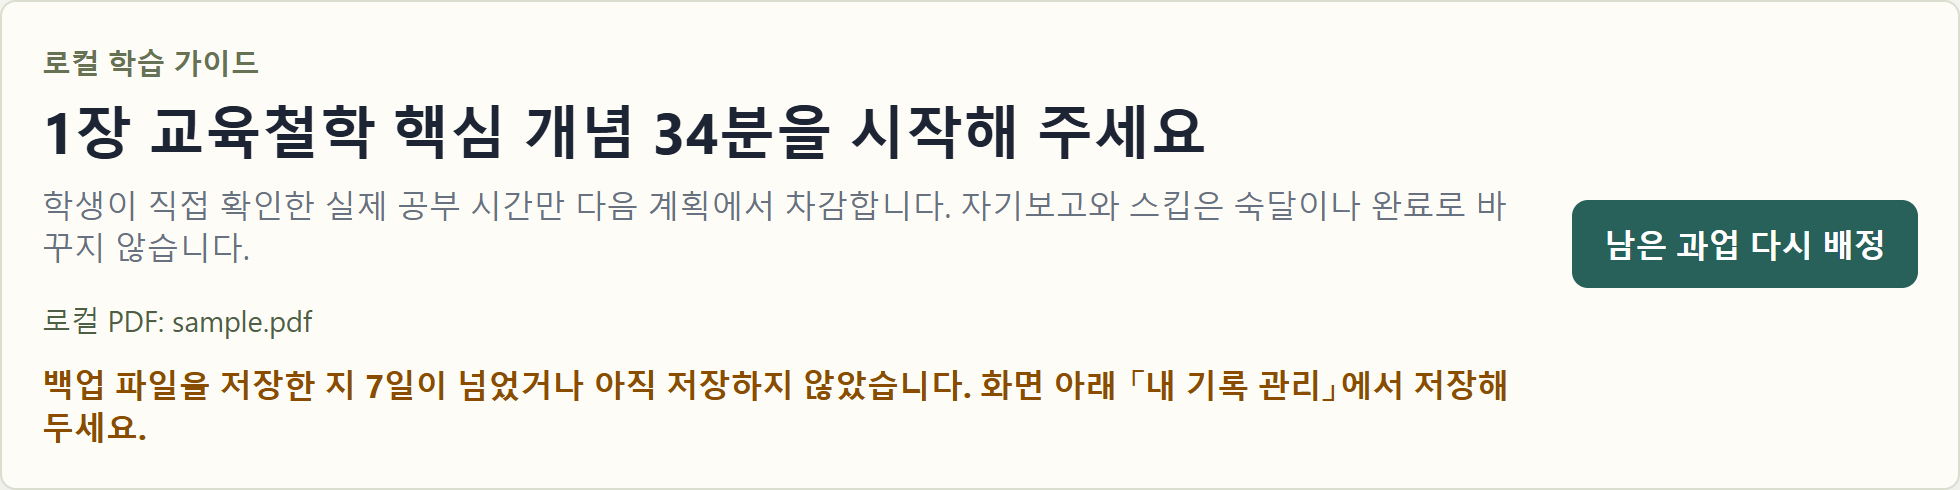
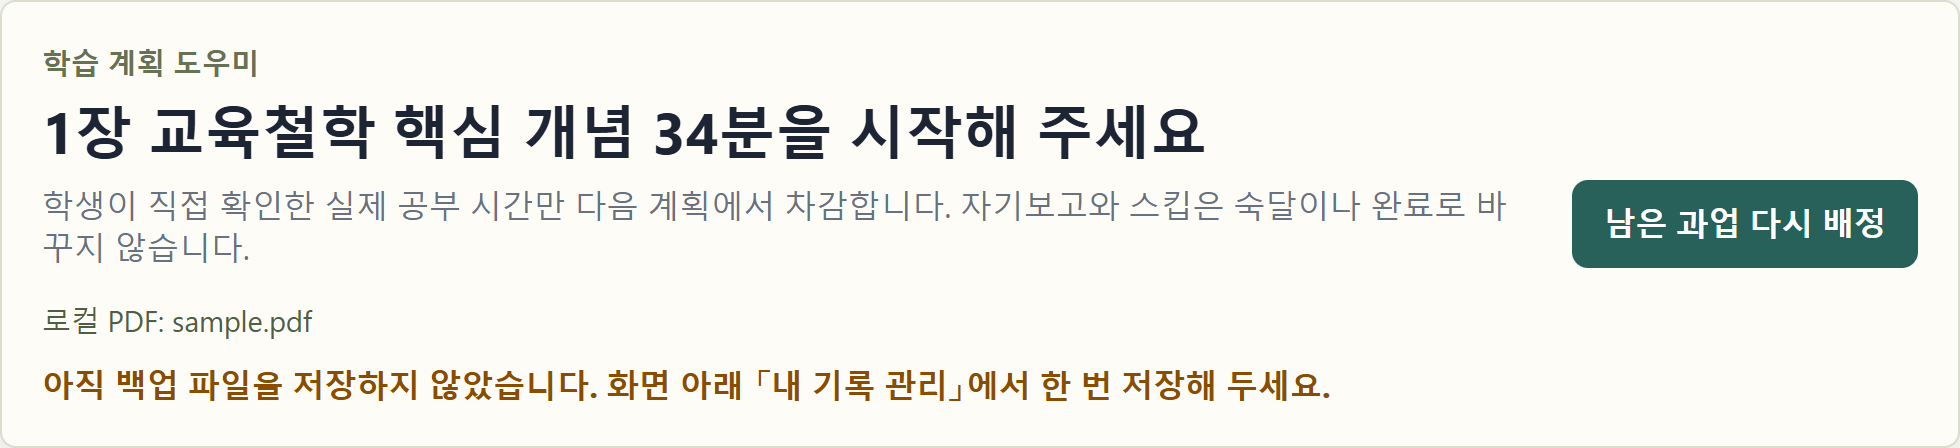
v0.8.0 웹 버전 문서: 검증 기록, PRD 9.3, L26~L31, 웹 가이드, 시범 절차 개정, 사이트 밖 요청 0 확인

diff --git a/docs/pilot/guide/guide-web.html b/docs/pilot/guide/guide-web.html
@@ -173,7 +173,7 @@
 </table>
 
 <h2>11. 기록이 저장되는 곳</h2>
-<p>자료 설정, 계획, 공부 기록, PDF에서 뽑은 글자는 <strong>이 컴퓨터의 이 브라우저 안</strong>에 저장됩니다. 인터넷으로 보내지 않으므로 운영자(교수)도 볼 수 없습니다. PDF 원본은 저장하지 않으니, PDF 파일은 원래 자리에 그대로 보관합니다.</p>
+<p>자료 설정, 계획, 공부 기록, PDF에서 뽑은 글자는 <strong>이 컴퓨터의 이 브라우저 안</strong>에 저장됩니다. 인터넷으로 보내지 않으므로 운영자(교수)도 볼 수 없습니다. 다만 이 주소의 사이트를 제공하는 GitHub은 방문한 컴퓨터의 IP 주소를 보안 목적으로 기록합니다. PDF 원본은 저장하지 않으니, PDF 파일은 원래 자리에 그대로 보관합니다.</p>
 <p>이 기록은 <strong>암호화되지 않은 상태</strong>로 저장됩니다. 컴퓨터를 다른 사람과 함께 쓰면 그 사람도 같은 브라우저로 이 주소를 열어 기록을 볼 수 있습니다. 백업 파일도 마찬가지이니 보관할 곳에 주의합니다.</p>
 
 <h2>12. 다 쓴 뒤 기록 지우기</h2>
@@ -182,7 +182,7 @@
 <div class="box note"><div class="title">공용 컴퓨터에서 썼다면</div><p>학교 실습실처럼 여러 사람이 쓰는 컴퓨터에서 썼다면, 자리를 뜨기 전에 백업 파일을 자신의 저장 공간에 옮기고 2단계로 기록을 지웁니다.</p></div>
 
 <div class="foot">
-  웹 버전 0.8.0 기준 · 확인 일자 2026-09-28 · 확인 근거: 단추·문구와 화면은 배포된 웹 버전의 화면 코드와 헤드리스 Chrome으로 찍은 실제 화면(예시 기록), Chrome 즐겨찾기 단축키는 Google Chrome 도움말(키보드 단축키) · 미확인: 실제 Safari·Edge·Firefox와 휴대폰·태블릿에서의 화면
+  웹 버전 0.8.0 기준 · 확인 일자 2026-09-28 · 확인 근거: 단추·문구와 화면은 배포된 웹 버전의 화면 코드와 헤드리스 Chrome으로 찍은 실제 화면(예시 기록), Chrome 즐겨찾기 단축키는 Google Chrome 도움말(키보드 단축키), IP 주소 기록은 GitHub Docs(What is GitHub Pages?) · 미확인: 실제 Safari·Edge·Firefox와 휴대폰·태블릿에서의 화면
 </div>
 </body>
 </html>

diff --git a/docs/pilot/pilot-plan.md b/docs/pilot/pilot-plan.md
@@ -1,86 +1,77 @@
-# 시범 사용 운영 절차 (v0.6)
+# 시범 사용 운영 절차 (v0.8 웹 버전)
 
-작성일 `2026-09-27`. 대상은 시범을 운영하는 사람이다. 근거 결정은 [D016~D018](../decisions.md), 설치본 상태는 [v0.6 검증 기록](../verification-v0.6.md)이다. 아래의 인원·시간·관찰 항목은 작업자가 정한 초안이며 확정된 연구 설계가 아니다.
+작성일 `2026-09-27`, 웹 버전으로 개정 `2026-09-28`. 대상은 시범을 운영하는 사람이다. 근거 결정은 [D016~D022](../decisions.md), 웹 버전 상태는 [v0.8 검증 기록](../verification-v0.8.md)이다. 아래의 인원·시간·관찰 항목은 작업자가 정한 초안이며 확정된 연구 설계가 아니다.
 
 ## 1. 목적과 범위
 
-시범의 목적은 학생이 설치부터 첫 계획, 다음 날 복귀, 제거까지 혼자 진행할 때 **어디서 막히는지**를 찾는 것이다. 학습효과, 임용시험 성과, 만족도 점수는 측정하지 않는다. 참여자가 2~3명이라 그런 주장을 뒷받침할 수 없다.
+시범의 목적은 학생이 주소를 여는 것부터 첫 계획, 다음 날 복귀, 지난 날 확인, 백업까지 혼자 진행할 때 **어디서 막히는지**를 찾는 것이다. 학습효과, 임용시험 성과, 만족도 점수는 측정하지 않는다. 참여자가 2~3명이라 그런 주장을 뒷받침할 수 없다.
 
-관찰 대상은 설치 과정, PDF 등록과 추출 검토 화면, 오늘 시작과 시간 기록, 다음 날 다시 배정, 제거할 때의 기록 삭제 선택(Windows는 제거 화면의 선택 칸, Mac은 가이드 13절의 수동 삭제)이다. 스캔 PDF 인식(OCR)과 LLM 계정 연결은 v0.6에 없다. 스캔 쪽은 `글자 없음`으로 표시만 한다. 참여자가 이 기능을 찾는지는 관찰해서 다음 구현 순서를 정하는 근거로 쓴다.
+관찰 대상은 주소 열기와 즐겨찾기, PDF 등록과 추출 검토 화면, 오늘 시작과 시간 기록, 다음 날 다시 배정, 학습 캘린더의 날짜 확인, 백업 파일 저장·불러오기다. 스캔 PDF 인식(OCR)과 LLM 계정 연결은 없다. 스캔 쪽은 `글자 없음`으로 표시만 한다. 참여자가 이 기능을 찾는지는 관찰해서 다음 구현 순서를 정하는 근거로 쓴다.
 
 ## 2. 시작 전 조건
 
-1. **깨끗한 환경 시험 통과.** 운영 PC에서 Windows 샌드박스를 켜고 `npm run test:sandbox`가 `passed: true`로 끝나야 한다. 실패하면 시범을 시작하지 않는다. `2026-09-27` v0.5.0과 v0.6.0 설치파일로 통과했다. 이 시험은 무인 설치이므로 Windows 경고 화면은 확인하지 못한다. Mac 앱은 GitHub의 macOS 환경에서 빌드와 자동 시험(Apple Silicon·Intel)이 통과한 압축파일만 배포한다. 이 자동 시험은 브라우저를 열지 않는 설정으로 돌았으므로, Mac에서 브라우저가 저절로 열리는지는 첫 Mac 참여자에게서 관찰한다.
-2. **전달 경로는 구글 드라이브 공유 링크.** 모든 참여자에게 같은 링크를 준다. 링크로 내려받은 파일에는 인터넷에서 받은 파일이라는 표시가 붙어, 드라이브·브라우저·Windows의 경고가 나타날 수 있다(`확인 필요`). 다시 빌드해도 공유 파일이 바뀌지 않도록, 배포할 설치파일은 `dist/`를 직접 공유하지 않고 별도 공유 폴더에 복사해 올린다. Mac 압축파일은 GitHub Actions 결과물(`challenge-master-macos`)로 받는다. `gh run download`나 웹에서 받은 바깥 묶음만 풀고, 안쪽 `Challenge-Master-0.7.0-macos.zip`은 **풀지 않은 채** 올린다. Windows에서 풀었다가 다시 압축하면 실행 권한과 앱 구조가 사라져 실행되지 않을 수 있다. 올린 파일의 SHA-256을 다시 대조한다. GitHub 결과물은 30일 뒤 삭제되므로 받은 즉시 저장소 밖에 보관한다.
-3. **운영자 직접 설치.** 2항의 **드라이브 링크로 내려받은** 설치파일을 운영자 PC에서 설치·실행·제거하면서 브라우저 다운로드 경고, Windows 경고 창, 설치 마법사, 제거 화면을 캡처한다. 직접 빌드한 파일을 그대로 실행하면 학생이 보는 경고가 재현되지 않을 수 있다. 제거 화면의 삭제 칸을 시험하기 전에는 운영자 PC에 `%LOCALAPPDATA%\ChallengeMaster`가 없는지 먼저 확인한다. 폴더가 있으면 삭제 칸 시험은 하지 않는다. 운영자에게 Mac이 없으므로 Mac의 경고·허용 화면은 **첫 Mac 참여자의 첫 사용 관찰**에서 캡처한다.
-4. **학생 가이드.** 학생에게는 [Windows 가이드](guide/guide-windows.html)와 [Mac 가이드](guide/guide-mac.html)를 PDF로 만든 것을 준다(공유폴더의 `Challenge Master 설치·사용 가이드` 두 파일). 가이드에는 링크를 넣지 않고 「운영자가 보낸 링크」로만 쓴다. 링크는 공개 저장소의 파일에 넣지 않는다. 가이드는 확인하지 못한 두 화면(Windows 파란 경고 창, Mac 첫 경고 창)을 「글자가 설명과 다르면 누르지 말고 캡처」로 처리한다. 3항과 첫 Mac 참여자 관찰에서 실제 화면을 얻으면 그 캡처로 해당 부분을 고친다.
-5. **설치파일 확인값.** Windows는 `dist/Challenge-Master-Setup-0.7.0-win-x64.exe.sha256`, Mac은 GitHub에서 받은 `Challenge-Master-0.7.0-macos.zip.sha256`의 값이 [v0.7 검증 기록](../verification-v0.7.md)과 같은지 확인한다. 첫 사용 관찰 때 학생 PC에서 대조한다. Mac은 학생이 zip을 풀기 전에 대조한다. Windows는 PowerShell `Get-FileHash <파일 경로>`, Mac은 터미널 `shasum -a 256 <파일 경로>`로 확인한다.
-6. **참여자 기기 조건.** Windows는 Windows 11 x64에서 확인했고, Windows 10·ARM PC·S 모드 PC는 확인하지 않았다. Mac은 macOS 13.5 이상이어야 한다. 이 하한은 포함한 Node.js 24의 지원 범위(Node.js BUILDING.md)를 따른 것이며, 자동 시험을 돌린 macOS는 15와 26뿐이며 13.5~14는 시험하지 않았다. 실제 Mac 기기에서 학생이 쓰는 모습도 아직 관찰하지 않았다.
+1. **배포 시험 통과.** GitHub Actions `pages` 실행이 성공한 판만 학생이 본다. 이 실행은 단위 시험과 Chrome·WebKit 학생 흐름 시험이 통과해야 사이트를 바꾼다. 시범 직전에 배포된 주소로 `node scripts/browser-web.mjs chrome webkit --url <주소>`를 한 번 더 돌린다.
+2. **전달 경로는 주소 하나.** 학생에게 `https://jinmin75.github.io/Challenge-Master/`와 [웹 가이드](guide/guide-web.html)의 PDF를 준다. 설치파일은 주지 않는다(D022). 이 주소는 공개 저장소의 공개 사이트이며 앱 코드만 있다. 학생 기록은 각자의 브라우저에만 생긴다.
+3. **브라우저 조건.** 시험한 것은 Windows의 Chrome과 Playwright의 WebKit(Safari 엔진)이다. 실제 Safari·Edge·Firefox와 휴대폰·태블릿은 시험하지 않았다. Safari 16 이하는 영구 저장 요청을 지원하지 않는다(WebKit 문서, Safari 17부터 지원). 첫 Safari 참여자에게서 화면을 관찰한다.
+4. **운영자가 할 일은 주소 전달뿐이다.** 운영자 PC에 설치하거나 경고 화면을 캡처할 필요가 없다. 학생의 기록은 운영자 PC·계정·저장소에 저장되지 않는다(D022 사용자 조건).
 
-## 3. 보안 설정 확인
+## 3. 기록 보관 조건
 
-### 3.1 Windows: 스마트 앱 컨트롤
+기록은 학생 브라우저의 저장소(IndexedDB)에만 있다. 다음 경우 학생 화면에서 기록이 보이지 않는다.
 
-Microsoft 지원 문서에 따르면, 스마트 앱 컨트롤은 서명되지 않았거나 서명이 잘못된 앱을 신뢰할 수 없는 앱으로 보고 차단한다. 문서는 개별 앱에 예외를 줄 방법이 현재 없다고 밝힌다(`2026-09-27` 확인, [스마트 앱 컨트롤 FAQ](https://support.microsoft.com/ko-kr/windows/security/threat-malware-protection/smart-app-control-frequently-asked-questions)). v0.6 설치파일과 제거 프로그램은 서명되지 않았다.
+- 다른 브라우저, 다른 컴퓨터, 시크릿 창에서 열었을 때
+- 학생이 브라우저의 사이트 데이터를 지웠을 때
+- 브라우저가 저장 공간 부족이나 오래 방문하지 않은 사이트를 이유로 데이터를 정리했을 때(WebKit 문서의 eviction 조건). 앱은 첫 등록 때 영구 저장을 요청하지만 브라우저가 거절할 수 있다
 
-`2026-09-28` 결정: 참여자에게 이 기능의 상태를 **미리 확인시키지 않는다**. 학생이 기능 이름과 설정 위치를 몰라 수업이 멈추는 병목이 생기기 때문이다(운영자 지적). 참여자는 설치파일을 그냥 실행하고, 「차단」·「보호」 창이 떠서 설치가 시작되지 않을 때만 그 창을 찍어 운영자에게 보낸다(Windows 가이드 3절). 막힌 창의 실제 문구는 `확인 필요`다.
+대비책은 **백업 파일**이다. 앱은 백업 파일을 한 번도 저장하지 않았거나 마지막 저장 뒤 7일이 지나면 화면 맨 위에 안내를 띄운다. 7일은 작업자가 정한 초기값이며 시범 뒤 조정한다. 첫 사용 관찰 때 참여자가 백업 파일을 한 번 저장하고, 그 파일이 어디에 저장됐는지 찾게 한다.
 
-- 막힌 참여자에게 이 기능을 끄라고 요구하지 않는다. 설치 없이 쓰는 방법이 준비될 때까지 해당 참여자는 제외하는 것을 기본으로 한다.
-
-같은 문서는 최근 Windows 업데이트부터 클린 설치 없이 Windows 보안 앱에서 이 기능을 다시 켤 수 있다고 밝힌다. 참여자가 스스로 이 기능을 다시 켜려 한다면 서명 없는 제거 프로그램이 막힐 수 있으므로(`확인 필요`) 먼저 앱을 제거하도록 안내한다. 마무리 면담 때 설정 상태를 한 번 더 적는다.
-
-### 3.2 Mac: 처음 한 번 허용
-
-Mac 앱도 Apple 개발자 서명과 공증이 없다. Apple 지원 문서에 따르면, 이런 앱은 처음 열 때 막히고 사용자가 `시스템 설정` → `개인정보 보호 및 보안`에서 `그래도 열기`를 눌러야 한다(`2026-09-27` 확인, [Apple 지원 102445](https://support.apple.com/en-us/102445)). 이 단계는 참여 조건이 아니라 설치 절차의 일부이며, 한국어 메뉴 이름은 첫 Mac 참여자의 화면으로 확인한다. GitHub 시험 환경에서 이 앱에 대한 Gatekeeper 판정도 기록했다([v0.6 검증 기록](../verification-v0.6.md)). 다만 그 환경의 파일에는 인터넷에서 받았다는 표시가 없으므로 학생 화면과 같다고 보지 않는다.
-
-이 앱 하나에 대해 `그래도 열기`를 누르는 것은 8절의 「보안 설정 변경」으로 보지 않는다. `그래도 열기` 단추가 없거나 학교·기관 관리 기기라서 막히면, 터미널 명령이나 Gatekeeper 설정 변경을 안내하지 않고 해당 참여자를 제외한다.
+설치판 0.7.0은 저장소와 GitHub Actions 결과물에 예비로만 남는다. 공유폴더에는 두지 않는다.
 
 ## 4. 진행 순서 (제안값)
 
 | 단계 | 시점 | 방식 | 운영자가 할 일 |
 |---|---|---|---|
-| 사전 확인 | 1일차 전 | 대면 또는 메신저 | 목적 설명, Mac은 macOS 버전 확인, 드라이브 링크와 해당 운영체제의 학생 안내 전달 |
-| 첫 사용 관찰 | 1일차, 30~40분 | 대면 또는 화면 공유(녹화하지 않음) | 설치파일 확인값 대조 후 설치 안내만 주고 지켜본다. 참여자가 도움을 청하기 전에는 개입하지 않는다 |
+| 사전 안내 | 1일차 전 | 대면 또는 메신저 | 목적 설명, 주소와 웹 가이드 PDF 전달, 한 브라우저로만 쓴다는 점 안내 |
+| 첫 사용 관찰 | 1일차, 20~30분 | 대면 또는 화면 공유(녹화하지 않음) | 주소 안내만 주고 지켜본다. 참여자가 도움을 청하기 전에는 개입하지 않는다. 끝에 백업 파일을 한 번 저장하게 한다 |
 | 혼자 사용 | 2~7일차 | 참여자 단독 | 사용 빈도는 요청하지 않는다. 운영자는 연락을 기다린다 |
-| 마무리 면담 | 7일차 전후, 20~30분 | 대면 또는 화면 공유(녹화하지 않음) | 면담 질문(6절), 제거 여부와 기록 삭제 선택을 참여자가 정한다 |
+| 마무리 면담 | 7일차 전후, 20~30분 | 대면 또는 화면 공유(녹화하지 않음) | 면담 질문(6절). 계속 쓸지, 기록을 지울지는 참여자가 정한다 |
 
-첫 Mac 참여자는 예외로 운영자가 화면을 함께 보며 진행한다(2절 4항). 이 참여자의 관찰 메모에는 `동반`이라고 표시해, 혼자 진행한 참여자의 기록과 구분한다.
-
-첫 사용에 쓸 PDF는 참여자가 이용 권한을 가진 자료로 한다. 운영자가 교재 파일을 나눠 주지 않는다. 텍스트를 선택할 수 있는 PDF에서만 추출이 된다는 점과 32MB·30쪽 제한을 미리 알린다.
+첫 사용에 쓸 PDF는 참여자가 이용 권한을 가진 자료로 한다. 운영자가 교재 파일을 나눠 주지 않는다. 텍스트를 선택할 수 있는 PDF에서만 추출이 된다는 점과 50MB·30쪽 제한을 미리 알린다.
 
 ## 5. 관찰 기록 항목
 
 첫 사용 관찰에서는 아래를 시간과 함께 적는다. 참여자의 PDF 내용, 답안, 화면에 보이는 교재 원문은 적지 않는다.
 
-- 설치파일 실행부터 첫 화면이 열릴 때까지 걸린 시간, 경고가 떴는지, 참여자가 어떻게 통과했는지
-- **공부 범위** 칸을 설치 안내와 화면 도움말만으로 채웠는지
+- 사용한 운영체제와 브라우저(이름과 버전), 주소를 연 방법, 즐겨찾기를 했는지
+- **공부 범위** 칸을 가이드와 화면 도움말만으로 채웠는지
+- PDF 등록에 걸린 시간(쪽 수와 함께), 오래 걸리거나 멈춘 경우 그 원문
 - **이 설정으로 시작** 다음에 **오늘 시작**을 스스로 찾았는지
-- **PDF 추출 검토**의 `원본 대조 필요` 표시를 어떻게 이해했는지. 이 화면은 쪽 번호와 상태만 보여 준다. 글자가 없는 쪽은 `글자 없음(스캔 또는 빈 쪽)`으로 표시하며, v0.6 이전에 등록한 자료만 기존처럼 `추출 초안`으로 보인다. 실제 추출 여부는 참여자가 허락하면 기록 폴더의 추출 초안 파일에서 확인한다
-- 도움을 요청한 지점과 요청 내용, 운영자가 개입한 지점
-- 오류 메시지 원문. 앱이 열리지 않으면 Windows는 `%LOCALAPPDATA%\ChallengeMaster\startup-error.log`, Mac은 `~/Library/Application Support/ChallengeMaster/startup-error.log`와 `~/Library/Logs/ChallengeMaster/launcher.log`가 생겼는지
-- Mac: 첫 경고창에서 누른 단추, `그래도 열기`를 찾아간 경로, 허용 뒤 브라우저가 저절로 열렸는지와 걸린 시간, 추가로 뜬 시스템 창(있으면 원문)
+- **PDF 추출 검토**의 `원본 대조 필요` 표시를 어떻게 이해했는지
+- 백업 파일을 저장한 뒤 파일을 찾았는지, 어디에 옮겨 두었는지
+- 도움을 요청한 지점과 요청 내용, 운영자가 개입한 지점, 오류 메시지 원문
 
 ## 6. 마무리 면담 질문
 
 1. 첫날 이후 앱을 연 날과 그 이유, 열지 않은 날과 그 이유
-2. 다음 날 **남은 과업 다시 배정**으로 계획을 이어 갈 수 있었는지
-3. 오늘 계획과 이번 주 예측이 실제 공부 계획에 쓸모가 있었는지, 어떤 점이 달랐는지
-4. 앱을 쓰면서 따로 하게 된 일(파일 정리, 시간 계산 등)
-5. 스캔 PDF 인식이나 AI 계정 연결이 없어서 불편했던 순간이 있었는지
-6. 앱을 계속 쓸지, 제거할지, 제거한다면 기록을 남길지
+2. 다음 날 **남은 과업 다시 배정**으로 계획을 이어 갈 수 있었는지, 같은 브라우저로 열었는지
+3. 학습 캘린더에서 기록 없는 날을 확인했는지, 확인하면서 불편하거나 망설인 점
+4. 오늘 계획과 이번 주 예측이 실제 공부 계획에 쓸모가 있었는지, 어떤 점이 달랐는지
+5. 백업 안내를 보고 백업 파일을 저장했는지, 저장하지 않았다면 이유
+6. 스캔 PDF 인식이나 AI 계정 연결이 없어서 불편했던 순간이 있었는지
+7. 계속 쓸지, 이 브라우저의 기록을 지울지
 
 ## 7. 기록과 개인정보
 
-학생의 학습 기록과 PDF 사본은 학생 기기에만 있다. Windows는 `%LOCALAPPDATA%\ChallengeMaster`, Mac은 `~/Library/Application Support/ChallengeMaster`이며, Mac은 실행 기록을 `~/Library/Logs/ChallengeMaster`에도 남긴다. 앱은 이 자료를 외부로 보내지 않는다. 운영자가 보관하는 것은 관찰 메모와 참여자가 직접 보낸 화면 캡처·오류 로그뿐이다.
+학생의 자료 설정, 계획·공부 기록, PDF에서 뽑은 글자는 학생 브라우저에만 있다. PDF 원본은 저장하지 않는다. 앱은 이 자료를 어디로도 보내지 않으며, 사이트를 제공하는 GitHub Pages에도 학생 자료가 전송되지 않는다(페이지 파일을 받아 가는 요청만 있다). 다만 GitHub은 Pages 사이트 방문자의 IP 주소를 보안 목적으로 기록·보관한다(`2026-09-28` GitHub Docs 「What is GitHub Pages?」 확인). 학생에게 사전 안내 때 알린다. 운영자가 보관하는 것은 관찰 메모와 참여자가 직접 보낸 화면 캡처·오류 원문뿐이다. 백업 파일은 참여자 소유이며 운영자가 받지 않는다.
 
-관찰 메모에는 참여자 이름 대신 P1·P2·P3를 쓴다. 이 저장소는 공개 저장소다. 관찰 메모, 참여자가 보낸 캡처와 로그는 **저장소 밖**에 두거나, 저장소 안에 둘 경우 `docs/pilot/private/`에만 둔다(`.gitignore`의 `private/`가 이 폴더를 제외한다). 커밋 전에는 변경 파일 목록을 직접 확인한다. 시범 결과는 식별 정보를 뺀 요약만 `docs/`에 남긴다.
+관찰 메모에는 참여자 이름 대신 P1·P2·P3를 쓴다. 이 저장소는 공개 저장소다. 관찰 메모, 참여자가 보낸 캡처는 **저장소 밖**에 두거나, 저장소 안에 둘 경우 `docs/pilot/private/`에만 둔다(`.gitignore`의 `private/`가 이 폴더를 제외한다). 커밋 전에는 변경 파일 목록을 직접 확인한다. 시범 결과는 식별 정보를 뺀 요약만 `docs/`에 남긴다.
 
 ## 8. 중단과 종료
 
 다음 중 하나가 생기면 해당 참여자의 시범을 멈추고 원인을 먼저 고친다.
 
-- 설치가 차단되어 보안 설정을 바꾸지 않고는 진행할 수 없을 때
-- 학습 기록이나 PDF 사본이 사라지거나 다른 자료와 섞였을 때
+- 참여자의 브라우저에서 주소가 열리지 않거나 등록이 되지 않을 때
+- 학습 기록이 사라지거나 다른 자료와 섞였을 때(백업 파일로 되돌릴 수 있었는지도 적는다)
 - 참여자가 부담을 이유로 중단을 원할 때(이유를 묻지 않는다)
 
-시범은 모든 참여자가 설치·첫 계획·다시 배정·제거 선택을 한 번씩 해 보았거나, 막힌 지점이 기록되었을 때 끝난다. 끝나면 [작업 상태](../status.md)에 결과 요약을 남기고, 서명과 일반 배포 경로, OCR과 계정 연결의 순서를 다시 결정한다.
+시범은 모든 참여자가 첫 계획·다시 배정·날짜 확인·백업 저장을 한 번씩 해 보았거나, 막힌 지점이 기록되었을 때 끝난다. 끝나면 [작업 상태](../status.md)에 결과 요약을 남기고, 되돌리기 기능, 점검 신호 초기값, OCR과 계정 연결의 순서를 다시 결정한다.

diff --git a/docs/status.md b/docs/status.md
@@ -1,11 +1,12 @@
 # 작업 상태
 
-기준일: `2026-09-28`. 설계 v4.2 / Windows·macOS 시범판 v0.7.0. 현재 목표는 학생 2~3명 시범 사용판이며 Mac 사용자도 포함한다([D016~D020](decisions.md), [PRD 6.1절·9.2절](prd.md)).
+기준일: `2026-09-28`. 설계 v4.2 / **웹 버전 v0.8.0**(학생 배포) / Windows·macOS 설치판 v0.7.0(예비). 현재 목표는 학생 2~3명 시범 사용이다([D016~D022](decisions.md), [PRD 6.1·9.3절](prd.md)).
 
 | 구분 | 현재 상태 | 근거/다음 확인 |
 |---|---|---|
-| Windows 설치파일 | v0.7.0 NSIS 설치파일; 앱 전용 Node.js와 pdf.js 포함, Python 없음; 서명 없음 | [v0.7 검증](verification-v0.7.md) |
-| macOS 앱 | `Challenge Master.app` 압축파일; Apple Silicon·Intel 겸용; 서명·공증 없음 | GitHub macOS 환경(arm64·Intel)에서 빌드·자동 시험 통과; 실제 Mac 학생 사용은 NOT RUN |
+| 웹 버전 | `https://jinmin75.github.io/Challenge-Master/`; 기록·추출 글자는 학생 브라우저(IndexedDB)에만, PDF 원본 저장 안 함; 백업 저장·불러오기·지우기; 사이트 밖 요청 0 | [v0.8 검증](verification-v0.8.md); Chrome·WebKit 통과, 실제 Safari·Edge·휴대폰 NOT RUN |
+| Windows 설치파일(예비) | v0.7.0 NSIS 설치파일, 공유폴더에서 뺌; 앱 전용 Node.js와 pdf.js 포함, Python 없음; 서명 없음 | [v0.7 검증](verification-v0.7.md) |
+| macOS 앱(예비) | `Challenge Master.app` 압축파일; Apple Silicon·Intel 겸용; 서명·공증 없음 | GitHub macOS 환경(arm64·Intel)에서 빌드·자동 시험 통과; 실제 Mac 학생 사용은 NOT RUN |
 | 제거 시 기록 선택 | Windows: 기본 보존, 선택 시 기록 폴더 삭제, 실행 중 제거 거부. Mac: 앱을 휴지통으로 옮기면 기록 보존, 기록 삭제는 폴더를 직접 지움 | Windows 무인 모드 통과; 샌드박스에서 실제 제거 화면 캡처로 문구·기본값 확인 |
 | 깨끗한 Windows 시험 | 네트워크를 끈 Windows 샌드박스에서 v0.7 설치·반입·기록·재시작·캘린더·제거 통과 | [v0.7 검증](verification-v0.7.md); 경고 화면은 범위 밖 |
 | PDF → MD | pdf.js로 선택 쪽의 글자 초안과 출처 manifest 저장; 검토 전 `needs_review`; 글자 없는 쪽은 `글자 없음`으로 표시 | 스캔 OCR·표/수식 복원은 시범 관찰 뒤 순서 결정 |
@@ -13,17 +14,17 @@
 | 브라우저 PDF 등록 | v0.4~v0.6.0은 실제 브라우저에서 등록 요청이 비어 항상 실패했음(0.6.1에서 수정) | [v0.6 검증](verification-v0.6.md) 0.6.1 절; v0.6.0 이하 설치본은 배포하지 않음. 0.7.0부터 설치본을 실제 Chrome으로 등록~종료까지 자동 시험(Windows 이 PC, CI macOS arm64·Intel) |
 | 학습 캘린더·월간 점검 | 한 달 캘린더, 기록 없는 날의 학생 확인(사후 기록·누락 확인+보완 계획·휴식), 보완은 한 날짜당 하루 공부 시간까지, 사후 기록은 과업 남은 분량 안에서 차감, 단일 점수 없음 | 합성 시험 L20~L24, 헤드리스 Chrome 조작 L25(이 PC·CI 세 운영체제) 통과; 설치본에서는 오늘 칸 표시까지만 자동 시험, 지난 날 확인 조작과 학생 사용은 NOT RUN |
 | 주간 재계획 | 확인한 공부 기록만 반영해 7일 예측 갱신; 미래 분량은 tentative | 합성 회귀 검증; 실제 학생 이행률·효과 미검증 |
-| 시범 운영 자료 | [시범 운영 절차](pilot/pilot-plan.md), 학생 가이드 PDF 원본([Windows](pilot/guide/guide-windows.html), [Mac](pilot/guide/guide-mac.html)); 전달은 구글 드라이브 링크(D017) | 실제 화면 캡처 포함; 파란 경고 창·Mac 첫 경고 창 문구는 미확인이라 가이드에 그렇게 적음 |
-| 자동 빌드 | GitHub Actions `packages`: 세 운영체제 단위 테스트와 캘린더 브라우저 시험, macOS 앱 빌드와 arm64·Intel 시험 | 공개 저장소의 표준 실행 환경 사용 |
+| 시범 운영 자료 | [시범 운영 절차](pilot/pilot-plan.md)(웹 버전으로 개정), 학생 가이드 [웹 가이드](pilot/guide/guide-web.html) PDF 한 벌(Windows·Mac 공통) | 설치판 가이드 두 벌은 예비로 저장소에만 남김 |
+| 자동 빌드 | GitHub Actions `pages`: 단위 시험 → 웹 빌드 → Chrome·WebKit 학생 흐름 시험 → 통과 시에만 배포. `packages`: 세 운영체제 단위 시험·캘린더 브라우저 시험, macOS 앱(예비) 빌드·시험 | 공개 저장소의 표준 실행 환경 사용 |
 | 실제 학생 계정 연결 | NOT RUN | 시범 관찰 뒤 공식 지원 경로 한 조합 확인 |
 | 실제 교재·학생 사용성 | NOT RUN | 시범에서 관찰 |
 | 제품 전체 검증 | K01–K25 NOT RUN | 로컬 회귀와 설치본 시험을 제품 전체 검증으로 대체하지 않음 |
-| 코드 검사 | `npm test` 109/109, `npm run check` 38개 JS 모듈 통과 | 전체 린트·타입 검사 아님 |
+| 코드 검사 | `npm test` 109/109, `npm run check` 45개 JS 모듈 통과 | 전체 린트·타입 검사 아님 |
 
 ## 시범 전에 남은 일
 
-1. Windows 설치파일과 Mac 압축파일을 드라이브 공유 폴더에 두고, 운영자 PC에서 Windows 설치파일을 링크로 내려받아 설치·제거하며 경고 화면과 제거 화면을 캡처한다. 이 캡처로 Windows 안내의 `확인 필요` 문구를 확정한다.
-2. 링크를 보내기 전에 Mac 참여자는 macOS 버전(13.5 이상)을 확인한다.
-3. 첫 Mac 참여자의 첫 사용을 화면 공유로 관찰하며 허용 단계 화면을 캡처하고, Mac 안내의 `확인 필요` 문구를 확정한다.
+1. 학생에게 주소와 웹 가이드 PDF를 전달한다(공유폴더에 가이드를 둠). 한 브라우저로만 쓰고 시크릿 창을 쓰지 않는다는 점, GitHub이 방문 IP를 기록한다는 점을 함께 알린다.
+2. 첫 Safari 사용자와 첫 휴대폰·태블릿 사용자가 생기면 화면이 제대로 열리는지 관찰한다(시험하지 않은 환경).
+3. 시범 중 백업 파일을 실제로 저장하는지, 기록이 사라진 사례가 있는지 기록한다.
 
 ‘개발 완료’나 임의의 완성도 점수를 현재 상태로 표기하지 않는다.

diff --git a/docs/verification-v0.8.md b/docs/verification-v0.8.md
@@ -1,0 +1,54 @@
+# 웹 버전 v0.8 검증 기록
+
+검증일: `2026-09-28`. 대상은 합성 기록·합성 PDF와 v0.8.0 웹 버전이다. 학생 교재·기록·계정은 사용하지 않았다. 근거 결정은 [D021·D022](decisions.md), 요구는 [PRD 9.3절](prd.md), 시험 항목은 [L26–L31](test-spec.md)이다.
+
+| 산출물 | 위치 |
+|---|---|
+| 웹 버전 0.8.0 | `https://jinmin75.github.io/Challenge-Master/` (GitHub Pages, 공개 저장소 `jinmin75/Challenge-Master`의 `pages` 워크플로가 배포) |
+| 정적 사이트 구성 | `node scripts/build-web.mjs`로 만든 217개 파일, 약 5.5MB(페이지·공유 규칙 모듈·pdf.js 6.3.289·데모 입력) |
+
+## v0.7 대비 변경
+
+- **요청 규칙 분리**: 서버(`src/web.mjs`)에 있던 계획 시작·기록·쉬기·건너뛰기·캘린더 요청 규칙을 저장 방식과 떼어 `src/app-core.mjs`로 옮겼다. PDF 쪽 읽기는 `src/pdf-read.mjs`, 초안 만들기는 `src/pdf-core.mjs`로 옮겼다. 설치판과 웹 버전이 같은 규칙 코드를 쓴다. 분리 뒤에도 설치판 시험 109개가 그대로 통과했다.
+- **웹 버전 저장**(`web/local-api.js`): 자료 설정·계획·공부 기록·추출 글자를 브라우저 IndexedDB에만 저장한다. 쓰기는 한 트랜잭션 안에서 기록을 다시 읽고 `applyEvent`로 검사한 뒤 더한다. 다른 탭에서 자료를 바꿨으면 쓰기를 거부한다. 첫 등록과 불러오기 때 영구 저장(`navigator.storage.persist()`)을 요청한다. PDF 원본은 저장하지 않는다(D022).
+- **브라우저 PDF 추출**: 같은 pdf.js(legacy 빌드)를 사이트에 함께 올리고 같은 `readPdfPages`로 읽는다. 원본의 SHA-256은 Web Crypto로 계산한다. 50MB 초과는 거부한다.
+- **화면**: 웹 버전에서는 「앱 종료」를 숨기고 「내 기록 관리」(백업 파일 저장·불러오기·이 브라우저의 기록 지우기)를 보인다. 백업을 한 번도 하지 않았거나 마지막 백업 뒤 7일이 지나면 맨 위에 안내를 띄운다. 다른 탭의 기록 변경을 BroadcastChannel로 받아 다시 그린다. 스크립트·스타일 경로를 상대 경로로 바꿔 하위 경로(`/Challenge-Master/`)에서도 열린다.
+- **보안 정책**: 빌드된 `index.html`에 CSP를 넣었다(`default-src 'self'`, `connect-src 'self'`, `script-src 'self' 'wasm-unsafe-eval'` 등). pdf.js의 코드 평가는 끈다(`isEvalSupported: false`).
+- **배포 게이트**: `pages` 워크플로는 단위 시험과 Chrome·WebKit 학생 흐름 시험이 통과한 파일만 배포한다.
+- 이 PC의 구글 드라이브 폴더에서 Node 25의 재귀 복사(`fs.cpSync` recursive)가 오류 메시지 없이 종료 코드 127로 끝났다. 빌드 스크립트는 파일을 하나씩 복사한다.
+
+## 실행한 확인
+
+| 항목 | 환경 | 결과 |
+|---|---|---|
+| 단위 시험 | 이 PC, GitHub ubuntu(`pages` 워크플로)·세 운영체제(`packages` 워크플로) | 109/109 통과 |
+| 코드 검사 | 이 PC | `npm run check` 45개 JS 모듈 통과(구문·공백만) |
+| 설치판 캘린더 브라우저 시험(L25) | 이 PC Chrome, 공유 흐름(`scripts/browser-flows.mjs`)으로 바꾼 뒤 | 통과 |
+| 웹 버전 학생 흐름(L26~L29, L31) | 이 PC에서 빌드를 `/Challenge-Master/` 하위 경로로 제공, Chrome 153·Playwright WebKit 26.6 | 두 엔진 모두 통과 |
+| 같은 시험을 배포된 주소에 | `https://jinmin75.github.io/Challenge-Master/`, Chrome 153·WebKit 26.6 | 두 엔진 모두 통과 |
+| 배포 게이트(L30) | GitHub Actions `pages` 실행(ubuntu, Chrome·WebKit) | build·deploy 성공 뒤에만 사이트 갱신 |
+| 큰 PDF | 합성 30쪽(쪽마다 글자 한 줄과 압축하지 않은 그림), 42.9MB | Chrome 0.4초, WebKit 2.0초에 30쪽 모두 「추출 초안」 |
+| 한도 초과 | 같은 방식 54.3MB | 두 엔진 모두 「PDF 파일이 너무 큽니다.」로 거부 |
+
+웹 버전 학생 흐름 시험(`scripts/browser-web.mjs`)이 확인하는 것:
+
+1. 데모 입력에서 지난 날 확인 전체(사후 기록, 누락 확인+보완, 한도 초과 보완의 오류와 미저장, 휴식, 확인 목록 비움, 달 이동, 오늘 기록의 캘린더 반영). 기록은 페이지의 같은 모듈로 넣고 읽는다
+2. 새 브라우저 프로필에서 한글(ToUnicode) PDF 2쪽 등록: 1쪽 「추출 초안」, 2쪽 「글자 없음」, 저장된 초안에 한글이 남음
+3. 오늘 시작·5분 기록 뒤 새로고침해도 기록 유지
+4. 백업 안내 표시 → 백업 파일 다운로드(설정·기록·초안 포함) → 안내 사라짐
+5. 두 번째 탭에서 5분 기록 → 첫 탭이 새로고침 없이 10분 표시
+6. 기록 지우기 → 데모로 돌아감, 잘못된 파일 불러오기 거부, 백업 파일 불러오기 → 5분 기록과 자료 이름 복원, 마지막 백업 날짜 표시
+7. 390px 폭에서 가로 스크롤 없음
+8. 콘솔 오류 0, 실패 요청 0, **사이트 밖으로 나간 요청 0**
+
+큰 PDF 측정의 그림은 압축하지 않은 단색이다. 실제 교재 PDF는 압축된 그림과 글꼴이 많아 시간이 다를 수 있다. 측정은 이 PC 한 대에서 한 번씩만 했다.
+
+## 남은 검증
+
+- 실제 Safari(macOS·iOS), Edge, Firefox, 휴대폰·태블릿: **NOT RUN**. WebKit 시험은 Playwright의 WebKit 빌드로 했으며 Safari 자체가 아니다.
+- 영구 저장 요청의 실제 결과: 시험 환경의 헤드리스 Chrome과 WebKit은 거절했다(화면에 「오래 쓰지 않은 사이트의 기록을 정리할 수 있습니다」 표시). 학생 브라우저에서 허락되는지는 **NOT RUN**.
+- 브라우저가 실제로 데이터를 정리하는 조건과 시점: 문서 확인뿐이며 재현 **NOT RUN**.
+- 여러 달 사용, 실제 교재 PDF, 학생 사용성: **NOT RUN**.
+- 설치판(0.7.0)은 이번 변경 뒤 다시 빌드하지 않았다. 예비로 남은 설치판을 다시 배포하려면 설치본 시험부터 다시 한다.
+
+K01–K25의 제품 전체 시나리오 통과를 이 기록으로 주장하지 않는다.

diff --git a/docs/decisions.md b/docs/decisions.md
@@ -30,7 +30,7 @@
 | D019 | 2026-09-28 | 사용자 결정: v0.7에 학습 캘린더와 앱의 자동 학습 점검을 넣은 뒤 시범을 시작한다. 점검 기간은 한 달이다. 학생이 지난 날을 직접 확인한다(공부했지만 기록 못 함 → 사후 기록, 공부 못 함 → 누락 확인, 쉬는 날이었음). 누락한 날은 보완할 날과 시간을 골라 보완 계획을 잡을 수 있다. 학생 자기 점검 입력과 교수 상담은 넣지 않는다. 캘린더는 기존 기록을 읽고, 새 기록 종류(날짜 확인·사후 기록·보완 계획)만 더한다. | [PRD 6.1절](prd.md), [L20–L25](test-spec.md), [시안](design/calendar-mockup.png) | v0.7.0 구현; 합성·헤드리스 Chrome 시험과 Windows·Mac 설치본 자동 시험 통과([v0.7 검증](verification-v0.7.md)); 학생 시범 NOT RUN |
 | D020 | 2026-09-28 | 사용자 결정: 학생이 과업과 분을 골라 확인한 사후 기록은 그 과업의 남은 분량 한도 안에서 남은 분량에서 뺀다(PRD 6절 관측 계약의 「현재 계획에서 확인한 분량만」을 이 범위로 넓힌다). 사후 기록은 숙달 근거가 아니다. 보완일에 더할 수 있는 시간은 하루 공부 시간까지다(보완일 최대 두 배). 학생이 고르지 않은 증액은 여전히 하지 않는다. | [PRD 6절·6.1절](prd.md) | v0.7.0 구현; 합성·헤드리스 Chrome 시험과 Windows·Mac 설치본 자동 시험 통과([v0.7 검증](verification-v0.7.md)); 학생 시범 NOT RUN |
 | D021 | 2026-09-28 | 사용자 지적: 학생이 스마트 앱 컨트롤을 모르면 수업이 멈추고, 설치·사용이 학생에게 어려우면 안 된다. 현재 설치파일을 그대로 제공하되, 학생에게 보안 설정을 미리 확인시키는 단계를 없앤다. 설치가 막힌 학생만 막힌 창을 찍어 보내고, 보안 설정은 바꾸게 하지 않는다. 설치 없이 쓰는 방법(웹 버전)이나 서명은 필요가 확인될 때 사용자와 다시 정한다. | [Windows 가이드 3절](pilot/guide/guide-windows.html), [시범 절차 3.1절](pilot/pilot-plan.md) | 문서 반영 |
-| D022 | 2026-09-28 | 사용자 결정: 학생 배포를 설치파일에서 **웹 버전**으로 바꾼다. 조건은 「사용과 설치가 학생에게 어려우면 안 된다」. 설치·스마트 앱 컨트롤·Mac 허용 단계를 없애는 대신, 기록은 학생 브라우저 안에만 저장되므로 브라우저 변경·데이터 삭제로 기록이 안 보일 위험을 백업 기능으로 줄인다. 공개 정적 호스팅(GitHub Pages)은 비상업 용도로만 쓸 수 있다(`2026-09-28` GitHub 문서 확인). 계획 승인(`2026-09-28`): ① 규칙 코드를 설치판과 공유하는 모듈로 분리 ② 기록·설정·추출 결과는 학생 브라우저(IndexedDB)에만 저장하고 영구 저장을 요청 ③ pdf.js를 사이트에 함께 올려 브라우저에서 추출 ④ 앱 종료 대신 백업 파일 저장·불러오기와 기록 지우기 ⑤ GitHub Pages 자동 배포 ⑥ Chrome·WebKit 실제 브라우저 시험 ⑦ Windows·Mac 공통 가이드 한 벌. 사용자 조건: 운영자(교수)의 PC·계정·저장소에는 학생 데이터를 두지 않고, 수업 뒤에는 학생이 각자 관리한다. PDF 원본은 브라우저에 저장하지 않는다(추출 글자·쪽 상태만). 설치판 0.7.0은 공유폴더에서 빼고 저장소에 예비로 둔다. | [D021](decisions.md), [시범 절차](pilot/pilot-plan.md) | 계획 승인; 구현 중 |
+| D022 | 2026-09-28 | 사용자 결정: 학생 배포를 설치파일에서 **웹 버전**으로 바꾼다. 조건은 「사용과 설치가 학생에게 어려우면 안 된다」. 설치·스마트 앱 컨트롤·Mac 허용 단계를 없애는 대신, 기록은 학생 브라우저 안에만 저장되므로 브라우저 변경·데이터 삭제로 기록이 안 보일 위험을 백업 기능으로 줄인다. 공개 정적 호스팅(GitHub Pages)은 비상업 용도로만 쓸 수 있다(`2026-09-28` GitHub 문서 확인). 계획 승인(`2026-09-28`): ① 규칙 코드를 설치판과 공유하는 모듈로 분리 ② 기록·설정·추출 결과는 학생 브라우저(IndexedDB)에만 저장하고 영구 저장을 요청 ③ pdf.js를 사이트에 함께 올려 브라우저에서 추출 ④ 앱 종료 대신 백업 파일 저장·불러오기와 기록 지우기 ⑤ GitHub Pages 자동 배포 ⑥ Chrome·WebKit 실제 브라우저 시험 ⑦ Windows·Mac 공통 가이드 한 벌. 사용자 조건: 운영자(교수)의 PC·계정·저장소에는 학생 데이터를 두지 않고, 수업 뒤에는 학생이 각자 관리한다. PDF 원본은 브라우저에 저장하지 않는다(추출 글자·쪽 상태만). 설치판 0.7.0은 공유폴더에서 빼고 저장소에 예비로 둔다. | [D021](decisions.md), [시범 절차](pilot/pilot-plan.md), [PRD 9.3절](prd.md) | v0.8.0 구현·배포; Chrome·WebKit 시험 통과([v0.8 검증](verification-v0.8.md)); 실제 Safari·학생 시범 NOT RUN |
 
 ## 미확정 사항
 

diff --git a/README.md b/README.md
@@ -4,9 +4,13 @@
 
 학생이 보유 자료와 학습 범위를 정하면, 자신의 LLM 계정과 개인 Wiki를 이용해 공부할 방향을 잡고 연속 학습·답안 연습·교정을 진행한다. 학습 기록을 남기고 가용 시간 안에서 다음 일정을 조정하는 시스템을 목표로 한다.
 
-**현재 상태: 설계 v4.2 + Windows·macOS 시범판 v0.7.0.** 다음 목표는 학생 2~3명의 시범 사용이며 Mac 사용자도 포함한다. 실제 PDF의 선택 페이지에서 pdf.js로 텍스트 초안을 만들고, 로컬 화면에서 계획·공부 시간·주간 예측을 사용하고, 한 달 학습 캘린더에서 기록 없는 날을 직접 확인(사후 기록·누락 확인과 보완 계획·휴식)할 수 있다. Windows 설치본과 macOS 앱은 앱 전용 Node.js와 pdf.js를 포함한다. Windows 설치본은 개발 PC와 Node.js·Python이 없는 Windows 샌드박스에서, macOS 앱은 GitHub의 Apple Silicon·Intel macOS 환경에서 설치·반입·재시작을 확인했다. 실제 Mac 기기에서의 학생 사용은 아직 관찰하지 않았다. 코드 서명, 스캔 OCR·LLM 계정 연결, 실제 학생 사용성과 학습효과는 아직 검증하지 않았다.
+**현재 상태: 설계 v4.2 + 웹 버전 v0.8.0(학생 배포) + Windows·macOS 설치판 v0.7.0(예비).** 학생은 `https://jinmin75.github.io/Challenge-Master/`를 브라우저로 열어 쓴다. 설치할 프로그램이 없고, 자료 설정·계획·공부 기록·PDF에서 뽑은 글자는 학생 브라우저(IndexedDB)에만 저장된다. PDF 원본은 저장하지 않으며 페이지는 자기 사이트 밖으로 요청을 보내지 않는다. Chrome과 WebKit(Safari 엔진)에서 학생 흐름 전체를 시험했고, 실제 Safari·Edge·휴대폰과 실제 학생 사용은 아직 관찰하지 않았다. 스캔 OCR·LLM 계정 연결, 학습효과는 검증하지 않았다.
 
-## Windows 설치본
+## 웹 버전
+
+`node scripts/build-web.mjs [출력 폴더]`가 정적 사이트(기본 `dist/web`)를 만든다. 페이지 파일, 설치판과 공유하는 규칙 모듈(`src/app-core.mjs` 등), pdf.js, 데모 입력을 담고, Node 모듈을 가져오는 파일이나 빈 파일이 있으면 멈춘다. GitHub Actions `pages` 워크플로가 `main`에 올라온 코드를 단위 시험과 Chrome·WebKit 학생 흐름 시험(`scripts/browser-web.mjs`)에 통과시킨 뒤에만 GitHub Pages로 배포한다. 배포된 주소를 직접 시험하려면 `node scripts/browser-web.mjs chrome webkit --url https://jinmin75.github.io/Challenge-Master/`를 쓴다(`PLAYWRIGHT_CORE`로 로컬 playwright-core 경로 지정).
+
+## Windows 설치본 (예비)
 
 `dist/Challenge-Master-Setup-0.7.0-win-x64.exe`가 Windows 시범용 설치파일이다. 설치하면 시작 메뉴의 **Challenge Master**로 연다. 학생이 Node.js 등을 따로 설치할 필요는 없다. macOS 앱(`Challenge-Master-0.7.0-macos.zip`)은 GitHub Actions의 `packages` 실행 결과물로 받으며, 서명·공증이 없어 처음 한 번 시스템 설정에서 허용해야 한다([Mac 가이드](docs/pilot/guide/guide-mac.html)). 첫 화면에서 PDF, 추출할 시작·끝 페이지, 공부할 일과 가용 시간을 입력한다. 추출된 텍스트는 **원본 대조 필요** 상태로 남으며 검토 없이 학습 성과로 표시되지 않는다. 앱 화면의 **앱 종료**로 로컬 서버를 닫는다.
 

diff --git a/docs/test-spec.md b/docs/test-spec.md
@@ -75,6 +75,12 @@
 | L23 | 보완 계획: 과거·오늘 날짜, 누락 확인이 없는 날, 하루 공부 시간 초과 합계 | 거부; 허용된 보완 시간은 그날 계획·주간 예측의 가용 시간에 더해짐 | `2026-09-28` 통과(보완 40분 → 그날 가용 100분, 합계 초과 거부) |
 | L24 | 옛 기록 파일(v0.6 이하)을 v0.7로 열기 | 새 기록 종류 없이도 캘린더와 기존 기능 정상 | `2026-09-28` 합성 v0.6 기록 파일 통과; 실제 학생 기록 파일은 NOT RUN |
 | L25 | 실제 브라우저에서 캘린더 조작: 달 이동, 날짜 선택, 사후 기록, 누락 확인+보완 | 화면 표시와 서버 기록 일치 | `2026-09-28` 현재 PC와 CI 세 운영체제의 헤드리스 Chrome 통과(`scripts/browser-calendar.mjs`); 설치본 화면 조작은 NOT RUN |
+| L26 | 요청 규칙을 저장 방식과 분리(`app-core`)한 뒤 설치판 서버와 웹 버전이 같은 규칙으로 응답 | 설치판 기존 시험 전부 통과, 웹 버전에서 같은 캘린더 흐름(L25와 같은 단계) 통과 | `2026-09-28` 설치판 109/109, 웹 버전 Chrome·WebKit 통과 |
+| L27 | 웹 버전 저장: 등록·기록 뒤 새로고침, 두 탭에서 기록, 다른 탭이 자료를 바꾼 뒤 쓰기 | 기록 유지, 다른 탭이 새로고침 없이 갱신, 자료가 바뀐 뒤 쓰기는 거부 | `2026-09-28` 유지·탭 갱신 통과(Chrome·WebKit); 자료 변경 뒤 쓰기 거부는 코드 경로만 있고 브라우저 시험 NOT RUN |
+| L28 | 브라우저 PDF 추출: 한글(ToUnicode)·빈 쪽, 42.9MB 30쪽, 50MB 초과 | 한글 초안 저장, 빈 쪽 「글자 없음」, 큰 파일 추출, 초과는 한국어로 거부, PDF 원본은 저장 안 함 | `2026-09-28` Chrome·WebKit 통과(큰 파일 0.4초·2.0초, 합성 그림) |
+| L29 | 백업 저장·불러오기·잘못된 파일·기록 지우기 | 백업에 설정·기록·초안 포함, 잘못된 파일 거부, 지우면 데모, 불러오면 복원·마지막 백업 날짜 표시, 7일 안내 | `2026-09-28` Chrome·WebKit 통과; 7일 경과 안내는 시간 조작 시험 NOT RUN |
+| L30 | 배포 게이트: 시험 실패 시 배포 안 함 | `pages` 워크플로가 단위·브라우저 시험 통과 뒤에만 배포 | `2026-09-28` 성공 실행 확인; 실패 시 배포되지 않는 경우의 실제 실행은 NOT RUN(작업 의존 구조로만 보장) |
+| L31 | 개인정보: 페이지가 자기 사이트 밖으로 요청하는지, 하위 경로·CSP·휴대폰 폭 | 외부 요청 0, `/Challenge-Master/`에서 동작, CSP 위반 콘솔 오류 0, 390px 가로 스크롤 없음 | `2026-09-28` 로컬 빌드와 배포 주소 모두 Chrome·WebKit 통과 |
 
 ## 정책 검증 방법
 
